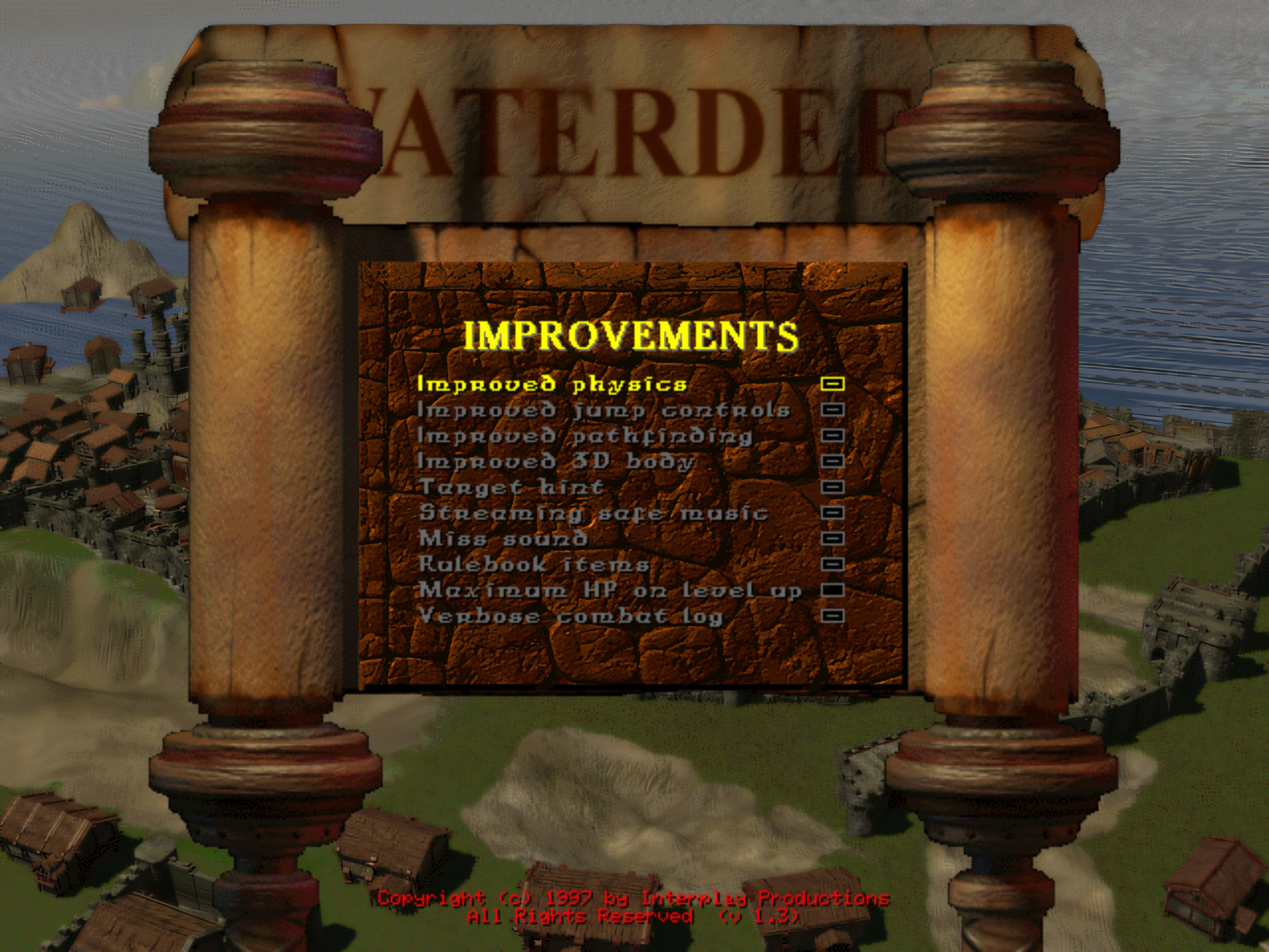
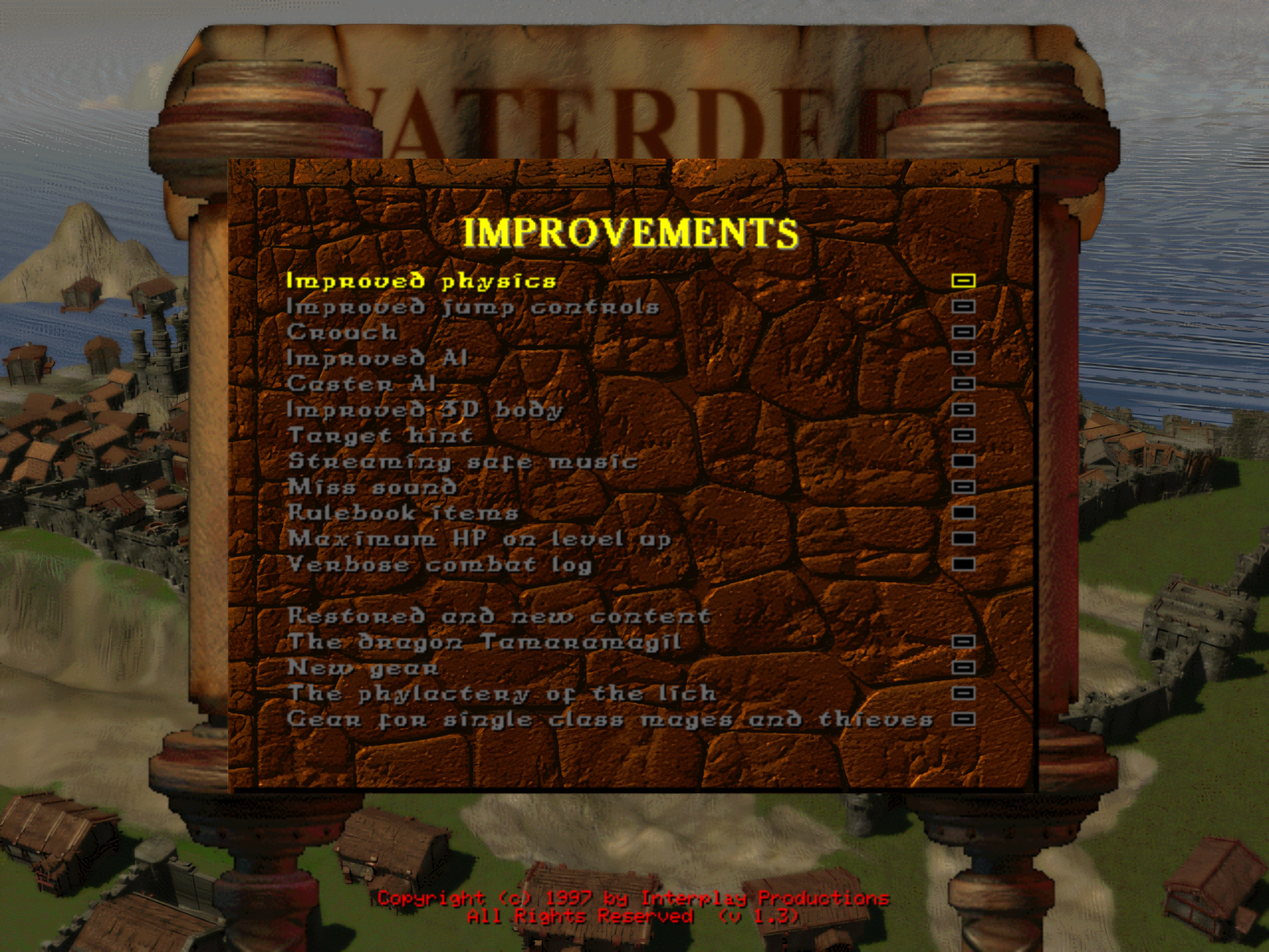
Update the README fixes and the Improvements screenshot

diff --git a/README.md b/README.md
@@ -60,6 +60,9 @@ On Windows, run the setup program; on Linux, unpack the release tarball and run 
 * A character learns a spell only when its classes can cast it: a mage no longer learns Protection From Fire, a priest spell, from a scroll.
 * Spells and potions keep their full time after nine hours of play; in 1.3 an effect that ends past that point ends at once (a Potion of Freedom showed "Free Action expired." right away).
 * Any damage wakes a sleeping character, not only a melee hit. While asleep, the view is black with "zzz" and the character cannot move, look around or act.
+* Lightning Bolt goes on through each creature on its line and comes back from walls, as in AD&D 2nd edition; in 1.3 the first body ends it.
+* Stone Skin uses up a hit only when the attack roll hits, and every attack on a held target hits, as in AD&D 2nd edition.
+* Dispel Magic is no attack: a creature at peace stays at peace, so Daland of the Temple of Myrkul can be freed for his quest.
 
 **Items**
 
@@ -101,6 +104,10 @@ On Windows, run the setup program; on Linux, unpack the release tarball and run 
 * A thief: Nalbas Oddpepper sells a short bow with poisoned arrows and a few Potions of Invisibility. Mirt the Merchant opens his old guild things from mission 3: Leather Armor +2, Master Lockpicks, Boots of Elvenkind (Move Silently 95), Bracers of Archery (+2 to hit with arrows and bolts), the Short Sword of Quickness and a Girdle of Hill Giant Strength.
 * The market of Waterdeep also gets a Wand of Paralyzation and a Wand of Lightning Bolts. The new items need the New gear setting too. See [docs/re/scripts.md](docs/re/scripts.md), "The class gear".
 
+**The dragon Tamaramagil** (on by default)
+
+* The red dragon of the Temple of the Drow (DROW2), which 1.3 has in its files but never places, rests in her hall and asks you for a favor. Her fire breath comes with a warning and can be dodged, her hatchlings join two at a time, and her hoard is one of the best treasures of the game. See [docs/re/dragon.md](docs/re/dragon.md).
+
 **The phylactery of the lich** (on by default)
 
 * Morik Stormhand, the lich of the Crypts of Clangeddin, protects himself with four spells the moment he sees you, and only a Dispel Magic takes them away. His phylactery is hidden in the crypts before his room. Break it and he fights without them; break it during the fight and they end at once. Barander and the dust of the crypts give hints. See [docs/re/lich.md](docs/re/lich.md).
@@ -109,6 +116,7 @@ On Windows, run the setup program; on Linux, unpack the release tarball and run 
 
 * A separate Climb Wall key, so Activate no longer tries to climb a wall when you pull a lever.
 * Walking into a lever, a button or a sign no longer works it (and no longer fills the log with its message): use Activate.
+* Typed names follow the keyboard layout of the system: dead keys, AltGr and accented letters work.
 
 Each fix can be turned off with an `-orig` command line option to compare with version 1.3 (the AI changes with the Improved AI setting), and [docs/audit/defects-1.3.md](docs/audit/defects-1.3.md) has the full list.
 
